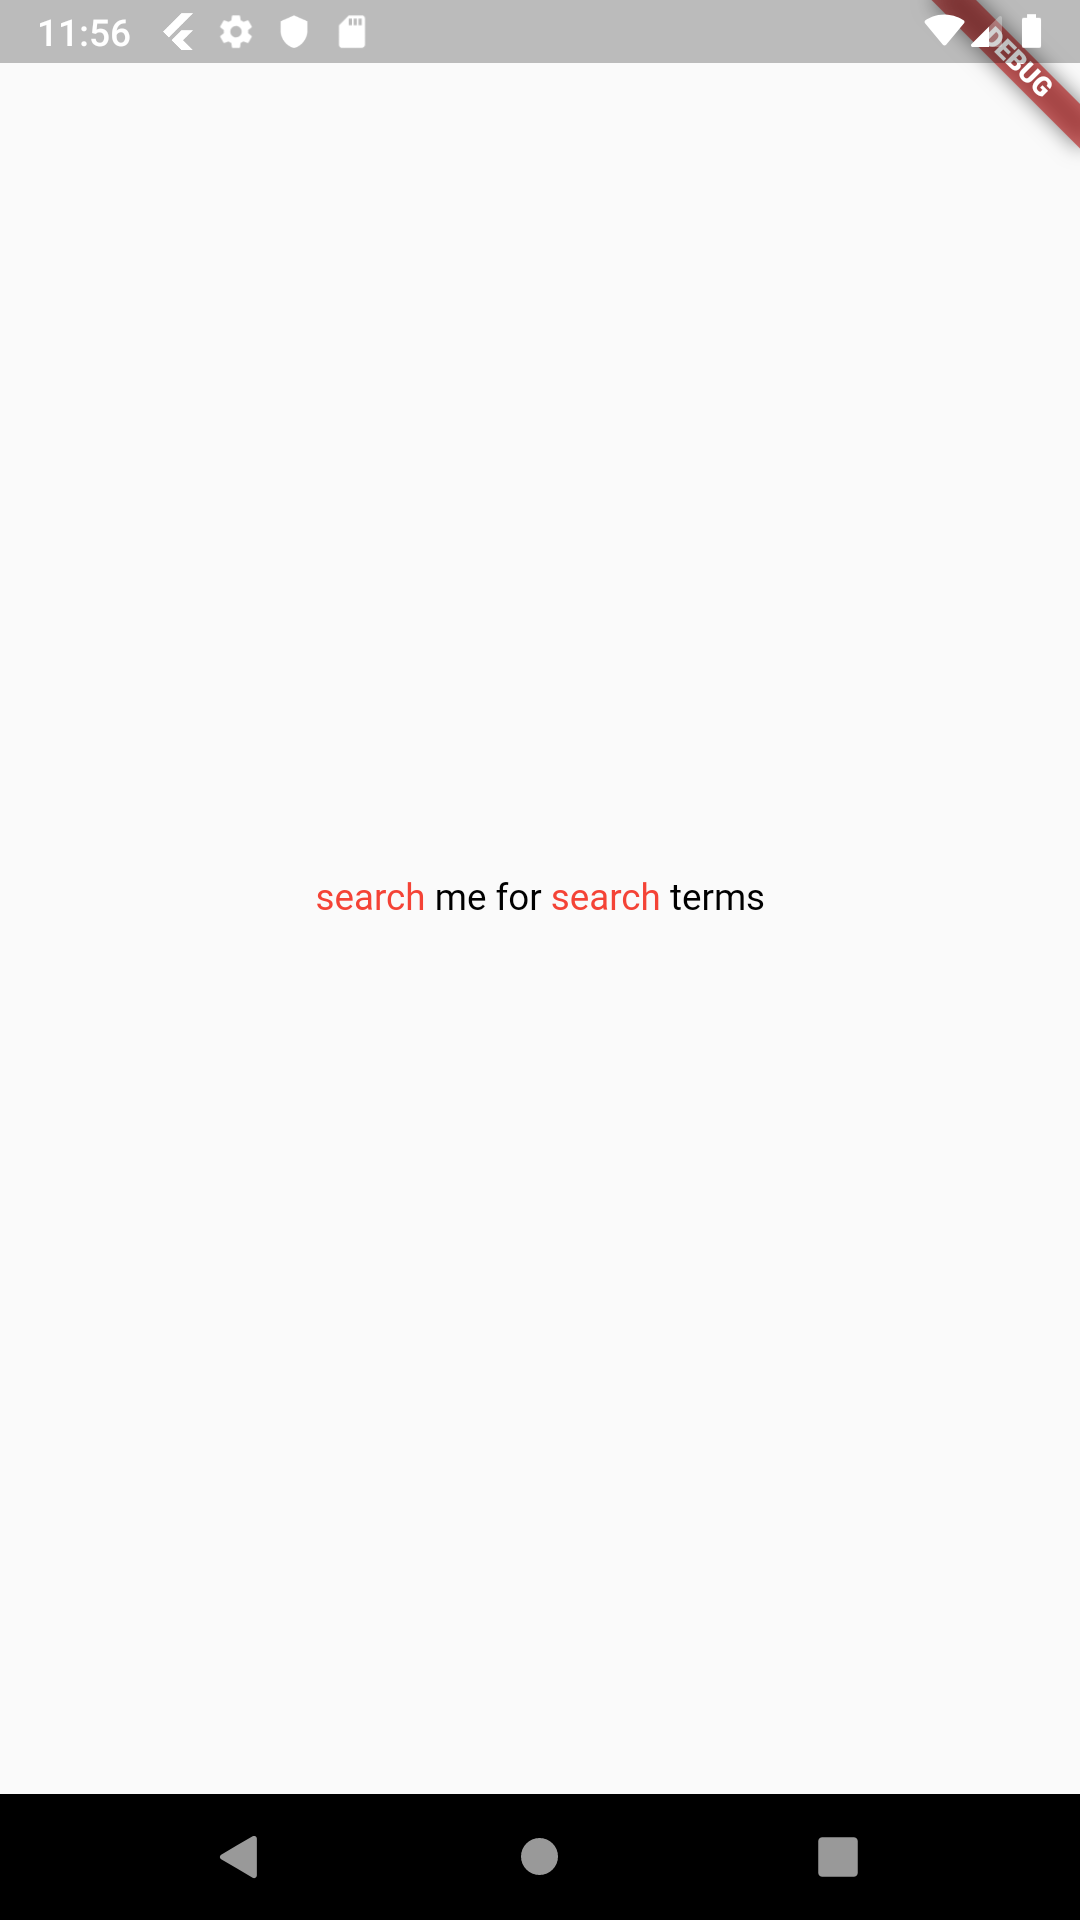
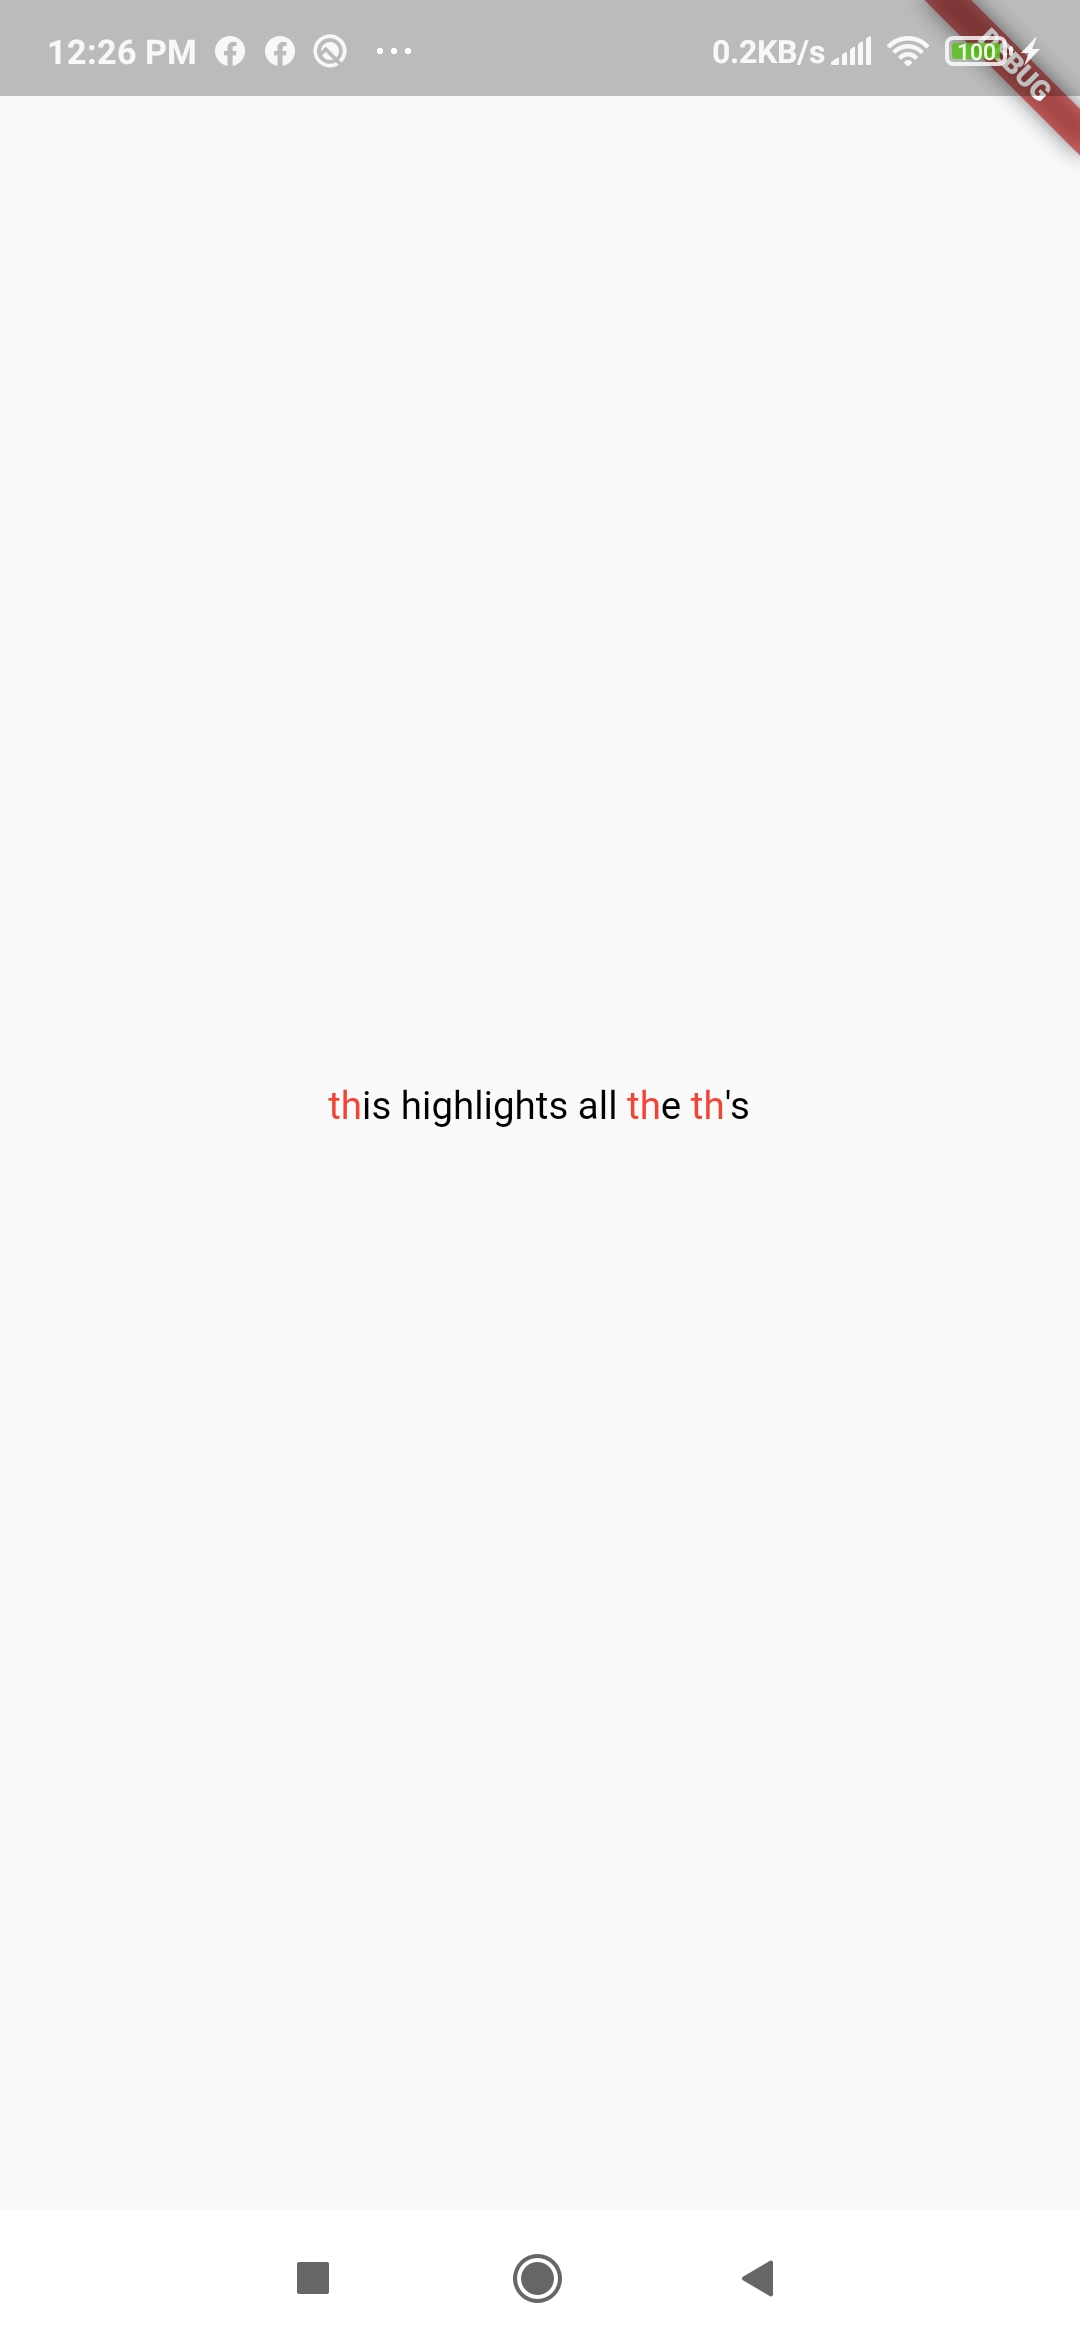
win: build 25:  #pubspec dart pub publish #publish

Changed region(s): [[0.0, 0.9375, 1.0, 1.0], [0.0, 0.0, 1.0, 0.0938], [0.3056, 0.4375, 0.7028, 0.5]]

diff --git a/lib/substring_highlight.dart b/lib/substring_highlight.dart
@@ -1,7 +1,6 @@
 library substring_highlight;
 
 import 'package:flutter/material.dart';
-import 'package:meta/meta.dart';
 
 /// Widget that renders a string with sub-string highlighting.
 class SubstringHighlight extends StatelessWidget {
@@ -18,8 +17,8 @@ class SubstringHighlight extends StatelessWidget {
   final TextStyle textStyleHighlight;
 
   SubstringHighlight({
-    @required this.text,
-    @required this.term,
+    required this.text,
+    required this.term,
     this.textStyle = const TextStyle(
       color: Colors.black,
     ),

diff --git a/example/lib/main.dart b/example/lib/main.dart
@@ -13,7 +13,7 @@ class MyApp extends StatelessWidget {
       home: Scaffold(
           body: Center(
               child: SubstringHighlight(
-                  text: 'search me for search terms', term: 'search'))),
+                  text: 'this highlights all the th\'s', term: 'th'))),
     );
   }
 }

diff --git a/README.md b/README.md
@@ -4,7 +4,7 @@ Highlight Flutter text at the character-level.
 
 Designed for case-insensitive search-term highlighting, a single search term sub-string is highlighted (perhaps multiple times) within a longer string.
 
-Inspired by the existing Flutter package "highlight_text," but supports sub-word character matches (e.g., 't' in 'Peter').
+Inspired by the existing Flutter package "highlight_text" which supports word matches ('Peter''), but substring_highlight has more granular character-by-character matches (e.g., 't' in 'Peter').
 
 Limitations:
 1. Only supports a single search term
@@ -33,7 +33,7 @@ Add a new dependency line to your project/pubspec.yaml file:
 ```yaml
 dependencies:
   ...
-  substring_highlight: ^0.1.3      # use latest version
+  substring_highlight: ^1.0.24      # use latest version
 ```
 
 Don't forget to *flutter pub get*.

diff --git a/CHANGELOG.md b/CHANGELOG.md
@@ -1,5 +1,13 @@
 # Changelog
 
+
+## Version 1.0.24 (2021-04-20)
+
+- upgraded to Dart 2.0
+- migrated to null-safety
+
+
+
 ## Version 0.1.3 (2020-02-18)
 
 - Effective Dart
